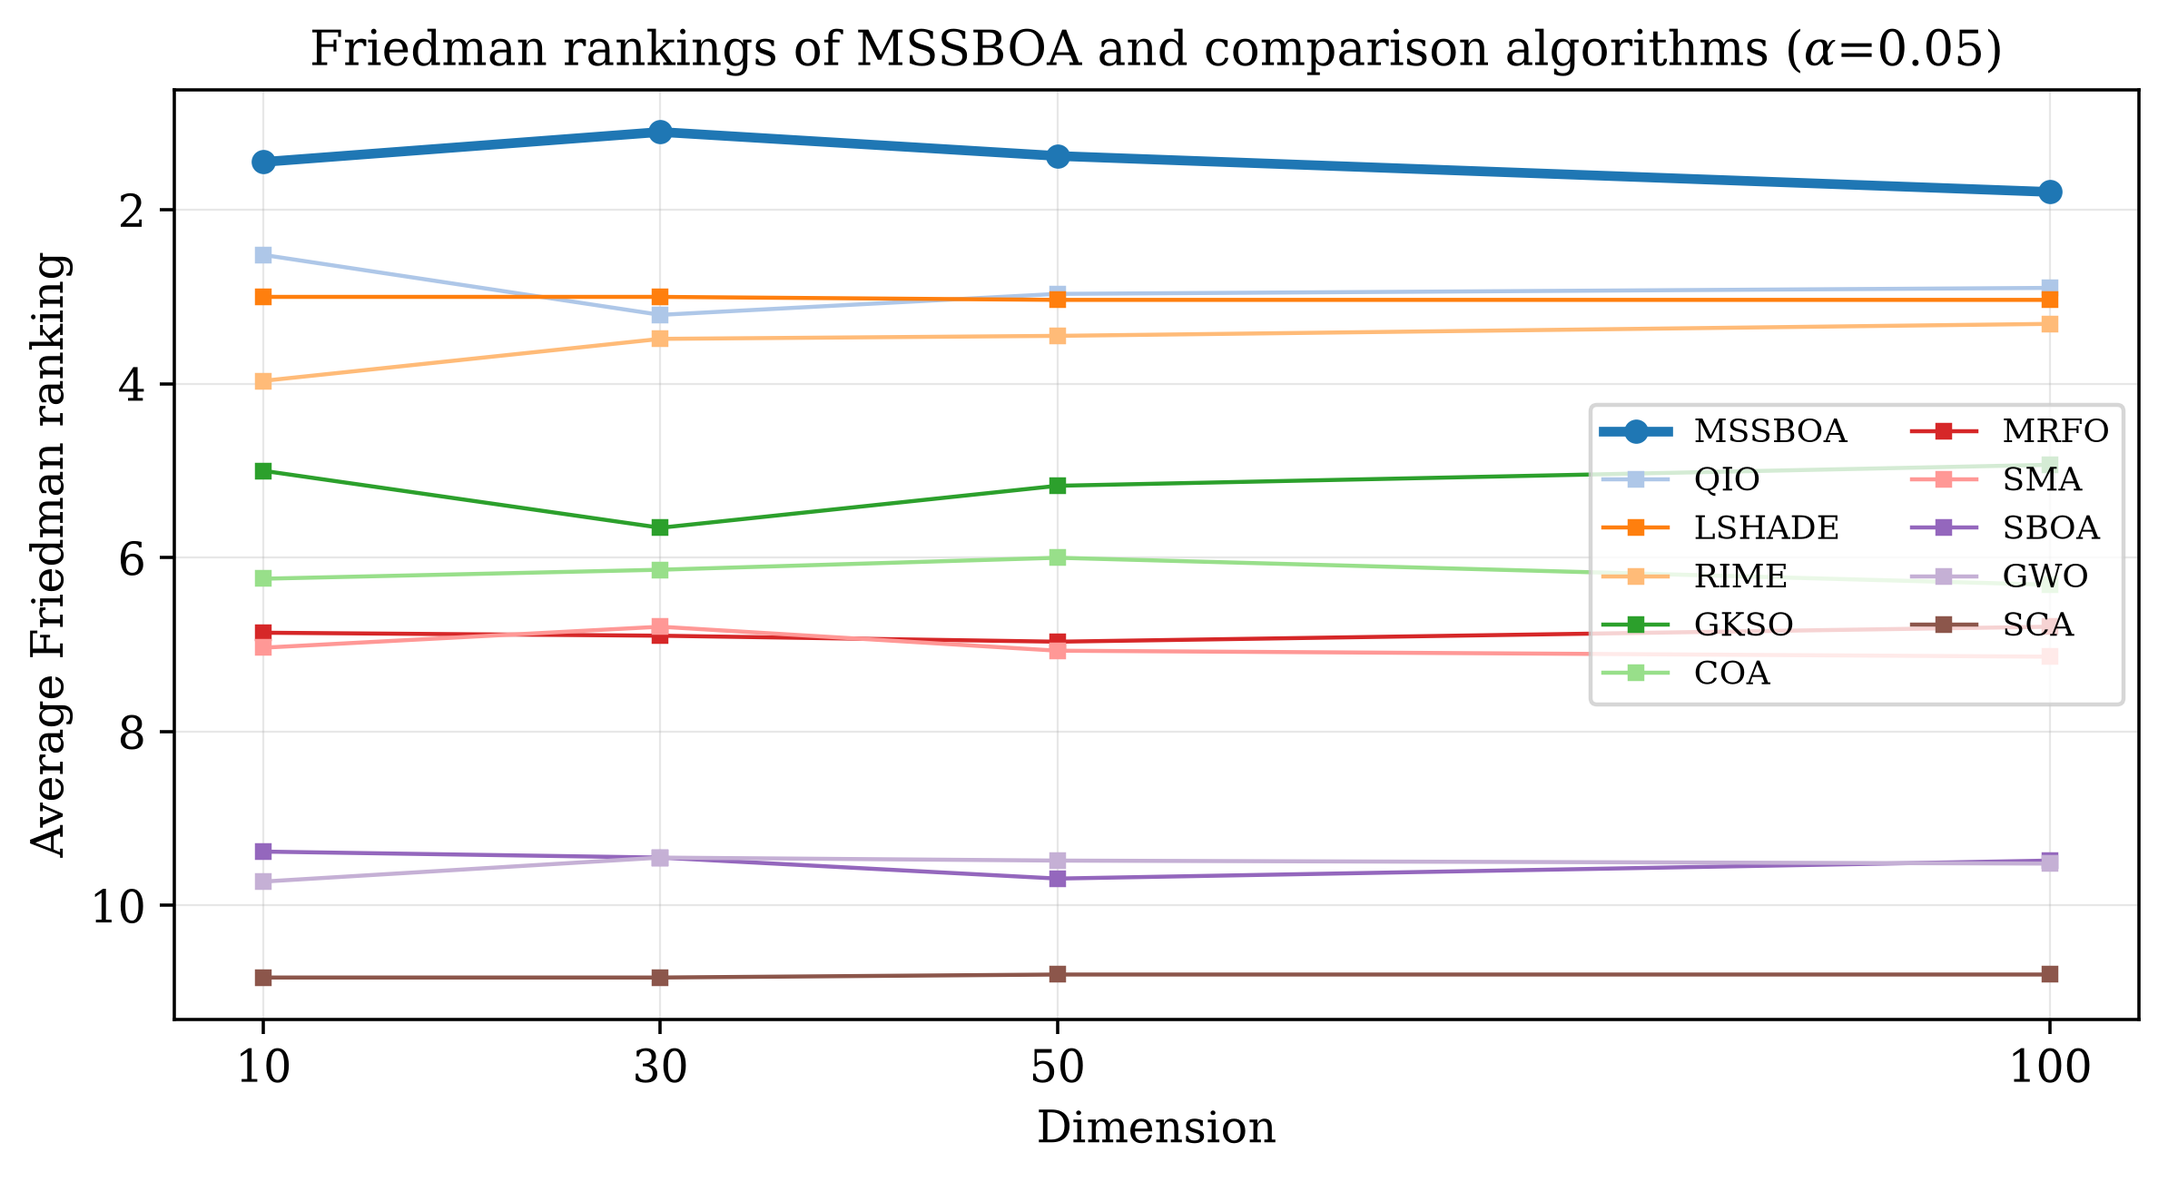
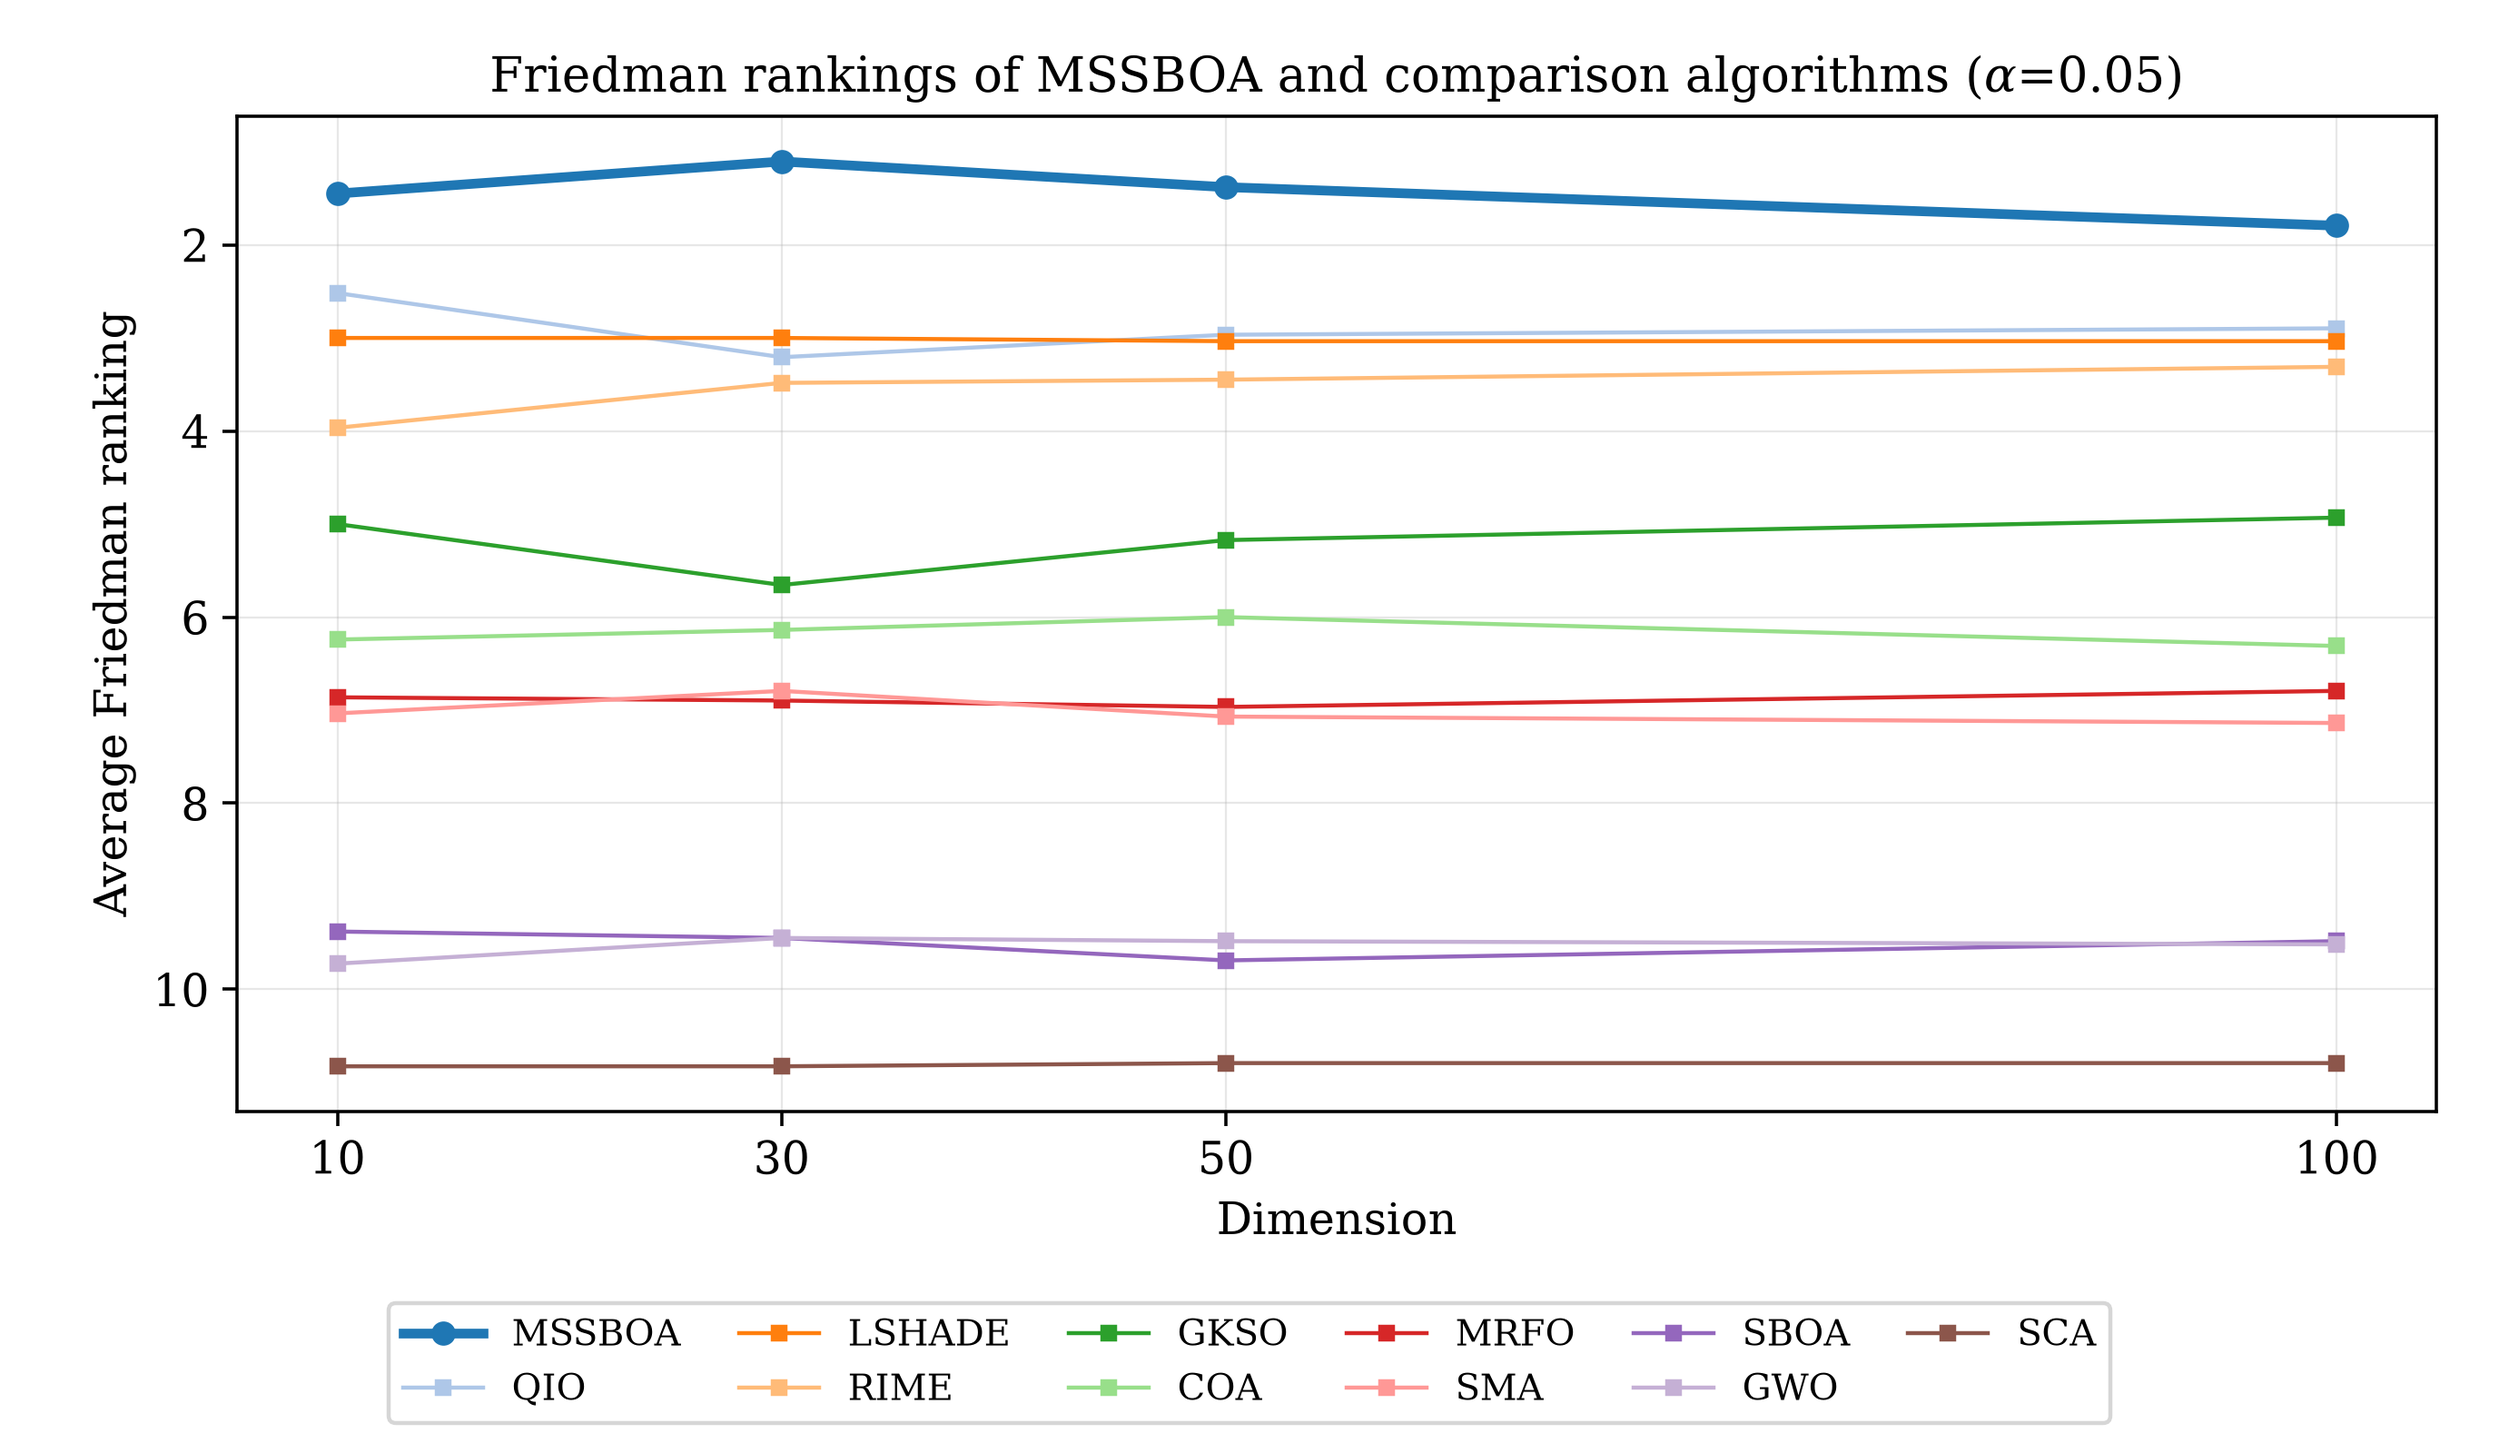
Move the Figure 9 legend below the plot
The in-axes legend (loc="center right") covered part of the ranking curves.
It is now a single shared legend placed under the axes in six columns,
matching the treatment used for the convergence-curve figure.

Claude-Session: https://claude.ai/code/session_016CfgsJrsDt54Fo8YTCmUBJ

diff --git a/paper/src/figs_stats.py b/paper/src/figs_stats.py
@@ -82,7 +82,8 @@ fig.suptitle("Ranking heatmaps of MSSBOA and comparison algorithms on CEC2017", 
 p=os.path.join(FIG,"fig07_heatmap.png"); fig.savefig(p,bbox_inches="tight"); plt.close(fig); print("saved fig07_heatmap.png")
 
 # ---------- Fig 8: Friedman rankings across dims (all algos) ----------
-fig,ax=plt.subplots(figsize=(7.6,4.2))
+# Legend is placed BELOW the axes (a legend inside the plot covered the curves).
+fig,ax=plt.subplots(figsize=(8.6,5.0))
 order=sorted(ALGOS,key=lambda a:cec["overall"][a])
 for k,a in enumerate(order):
     y=[cec["results"][str(d)]["friedman_avg"][a] for d in DIMS]
@@ -91,9 +92,13 @@ for k,a in enumerate(order):
     ax.plot(DIMS,y,style,lw=lw,ms=5 if a=="MSSBOA" else 3,label=a,color=PALETTE[k])
 ax.set_xticks(DIMS); ax.set_xlabel("Dimension"); ax.set_ylabel("Average Friedman ranking")
 ax.invert_yaxis()
-ax.legend(ncol=2,fontsize=8,loc="center right")
 ax.set_title(r"Friedman rankings of MSSBOA and comparison algorithms ($\alpha$=0.05)")
-save(fig,"fig08_friedman_all.png")
+handles,labels=ax.get_legend_handles_labels()
+fig.subplots_adjust(left=0.095,right=0.975,top=0.92,bottom=0.235)
+fig.legend(handles,labels,loc="lower center",ncol=6,frameon=True,fontsize=9,
+           bbox_to_anchor=(0.5,0.008),columnspacing=1.6,handlelength=2.2)
+p=os.path.join(FIG,"fig08_friedman_all.png"); fig.savefig(p); plt.close(fig)
+print("saved fig08_friedman_all.png")
 
 # ---------- Fig 9: Nemenyi CD diagrams (2x2) ----------
 def cd_value(k,N,q=None):
